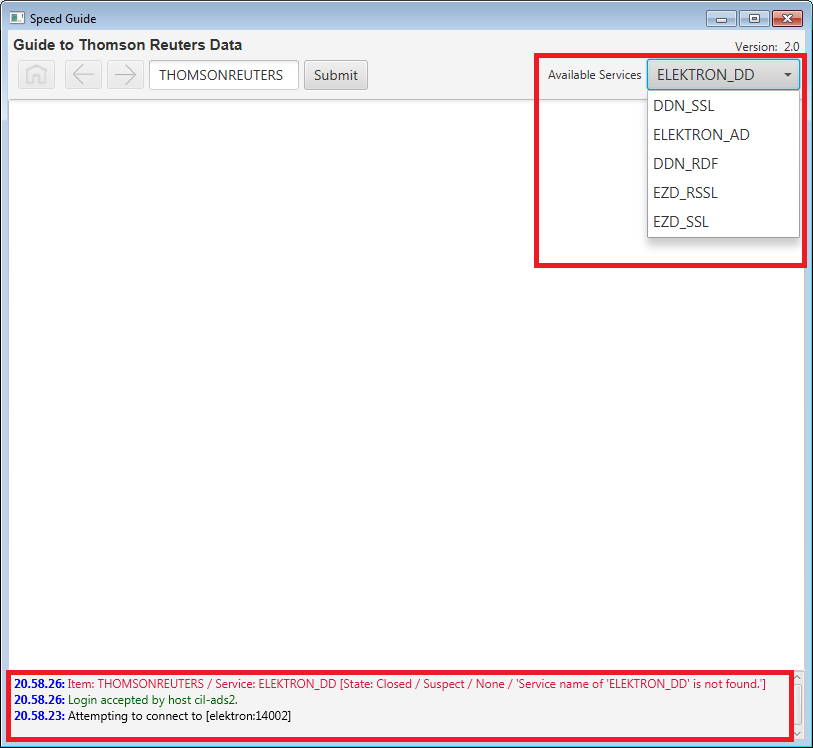
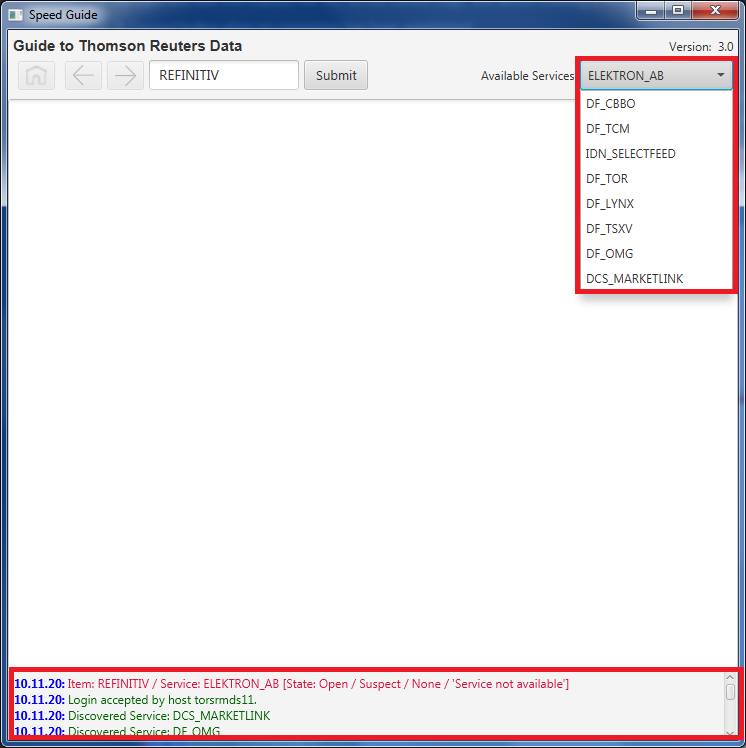
Updated screenshots.  Updated initial subscription to REFINITIV.

Changed region(s): [[0.0, 0.0, 1.0, 1.0]]

diff --git a/src/com/thomsonreuters/ema/example/gui/SpeedGuide/SpeedGuideConsumer.java b/src/com/thomsonreuters/ema/example/gui/SpeedGuide/SpeedGuideConsumer.java
@@ -785,7 +785,7 @@ public class SpeedGuideConsumer implements Runnable
 							    {
 							    	m_viewController.updateStatus(refreshMsg.state().statusText(), StatusIndicator.RESPONSE_SUCCESS);
 							    	m_viewController.setConnection(true, false, "");
-							    	subscribe("THOMSONREUTERS");
+							    	subscribe("REFINITIV");
 							    }
 							    public void onUpdateMsg(UpdateMsg updateMsg, OmmConsumerEvent consumerEvent){}
 							    public void onStatusMsg(StatusMsg statusMsg, OmmConsumerEvent consumerEvent){}

diff --git a/README.md b/README.md
@@ -12,7 +12,7 @@ The Speed Guide tool registers for Snapshot only data content (i.e, non-streamin
 
 ## Utility download
 
-The executable program and Readme is available for Download within the [Refinitiv Developer Platform](https://developers.refinitiv.com/system/files/SpeedGuide_3.0.zip).
+The executable program and Readme is available for Download within the [Refinitiv Developer Platform](https://developers.refinitiv.com/system/files/SpeedGuide_3.0_0.zip).
 
 ## Running the Utility
 
@@ -97,9 +97,9 @@ Or directory to ERT in Cloud over the Internet:
 
 ![connect](images/connectERT.png)
 
-The _Status Pane_ at the bottom of the main window provides some general feedback, whether success or failure.  In the case where a successful connection can be made to your specified server, the utility will launch the root Speed Guide item, i.e. **THOMSONREUTERS**.
+The _Status Pane_ at the bottom of the main window provides some general feedback, whether success or failure.  In the case where a successful connection can be made to your specified server, the utility will launch the root Speed Guide item, i.e. **REFINITIV**.
 
-**Note**: While the utility will launch the "THOMSONREUTERS" RIC, which represents the root code of the Speed Guide pages, the utility is extremely useful for developers to visualize any other instrument available within Elektron.
+**Note**: While the utility will launch the "REFINITIV" RIC, which represents the root code of the Speed Guide pages, the utility is extremely useful for developers to visualize any other instrument available within Elektron.
 
 ![main](images/main.png)
 
